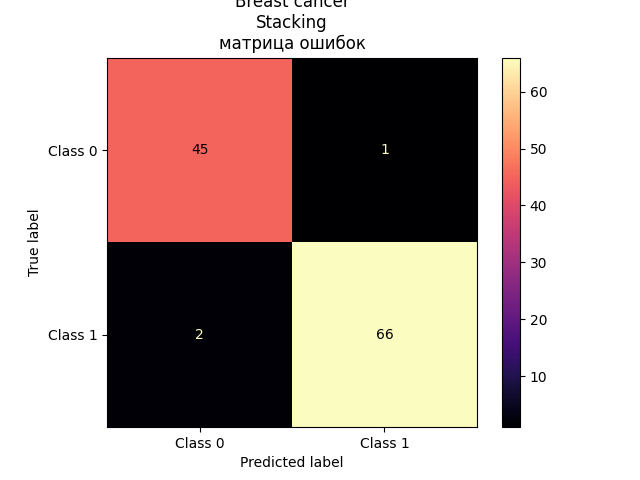
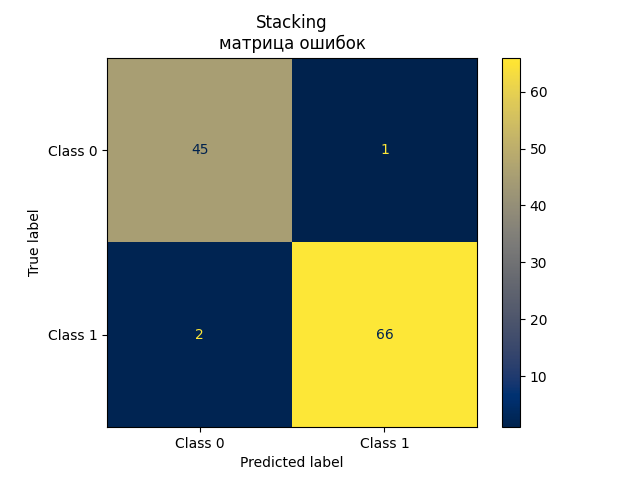
Итоговая работа по ML

diff --git a/2025.06.09/Breast_cancer/breast_cancer_ml.py b/2025.06.09/Breast_cancer/breast_cancer_ml.py
@@ -40,7 +40,7 @@ def output_results(y_test, y_pred):
 
     disp = ConfusionMatrixDisplay(conf_matr, display_labels=['Class 0', 'Class 1'])
     disp.plot(cmap= choice(color))
-    plt.title(f'Breast cancer\n{mod}\nматрица ошибок')
+    plt.title(f'{mod}\nматрица ошибок')
     plt.savefig(dir_path / f'{mod}_conf_matrix.png')
     plt.close()
 
